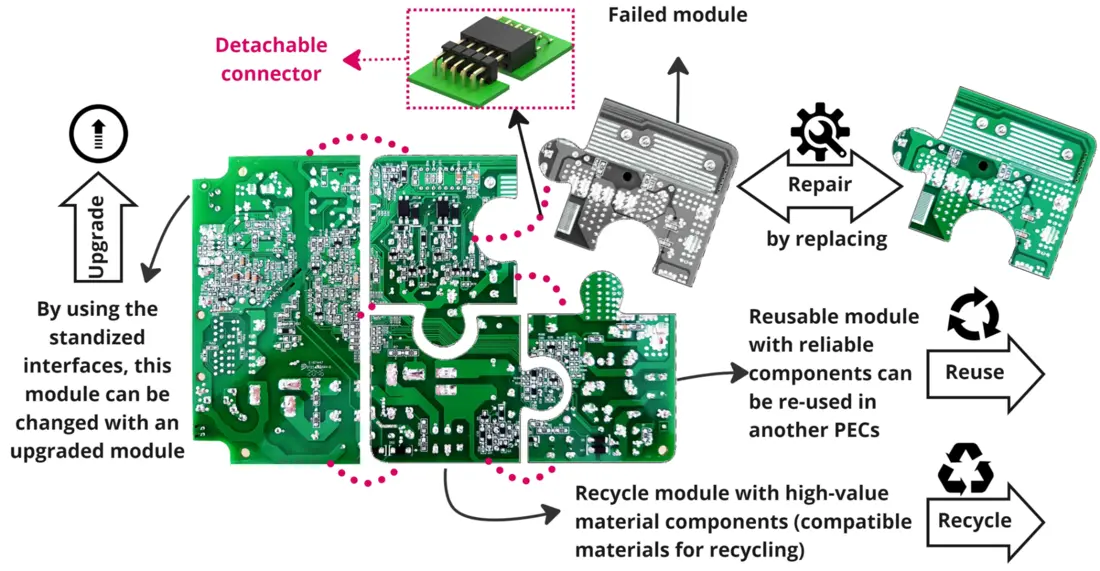
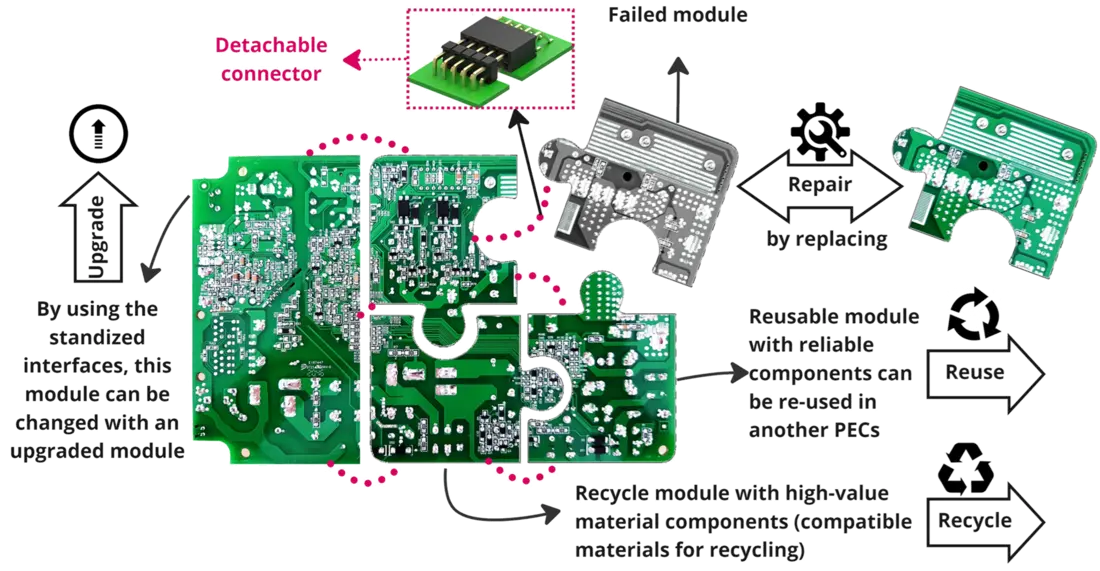
Update modularity figure and transition background

diff --git a/styles.css b/styles.css
@@ -66,3 +66,8 @@ a:focus-visible,button:focus-visible{outline:3px solid rgba(45,113,153,.35);outl
 .modularity-layout{grid-template-columns:minmax(0,1fr) minmax(0,1fr);gap:32px}
 .modularity-figure{width:100%}
 @media(max-width:900px){.modularity-layout{grid-template-columns:1fr}}
+
+/* Transparent modularity figure on a harmonized transition panel */
+.modularity-figure{padding:18px;background:linear-gradient(145deg,#1b4652 0%,#123342 55%,#0f2b39 100%);border:1px solid rgba(143,194,221,.28);box-shadow:0 18px 40px rgba(4,18,27,.2)}
+.modularity-figure img{filter:drop-shadow(0 10px 18px rgba(0,0,0,.18))}
+.modularity-figure figcaption{padding:12px 4px 2px;color:#c9dce7;border-top:1px solid rgba(255,255,255,.12)}
